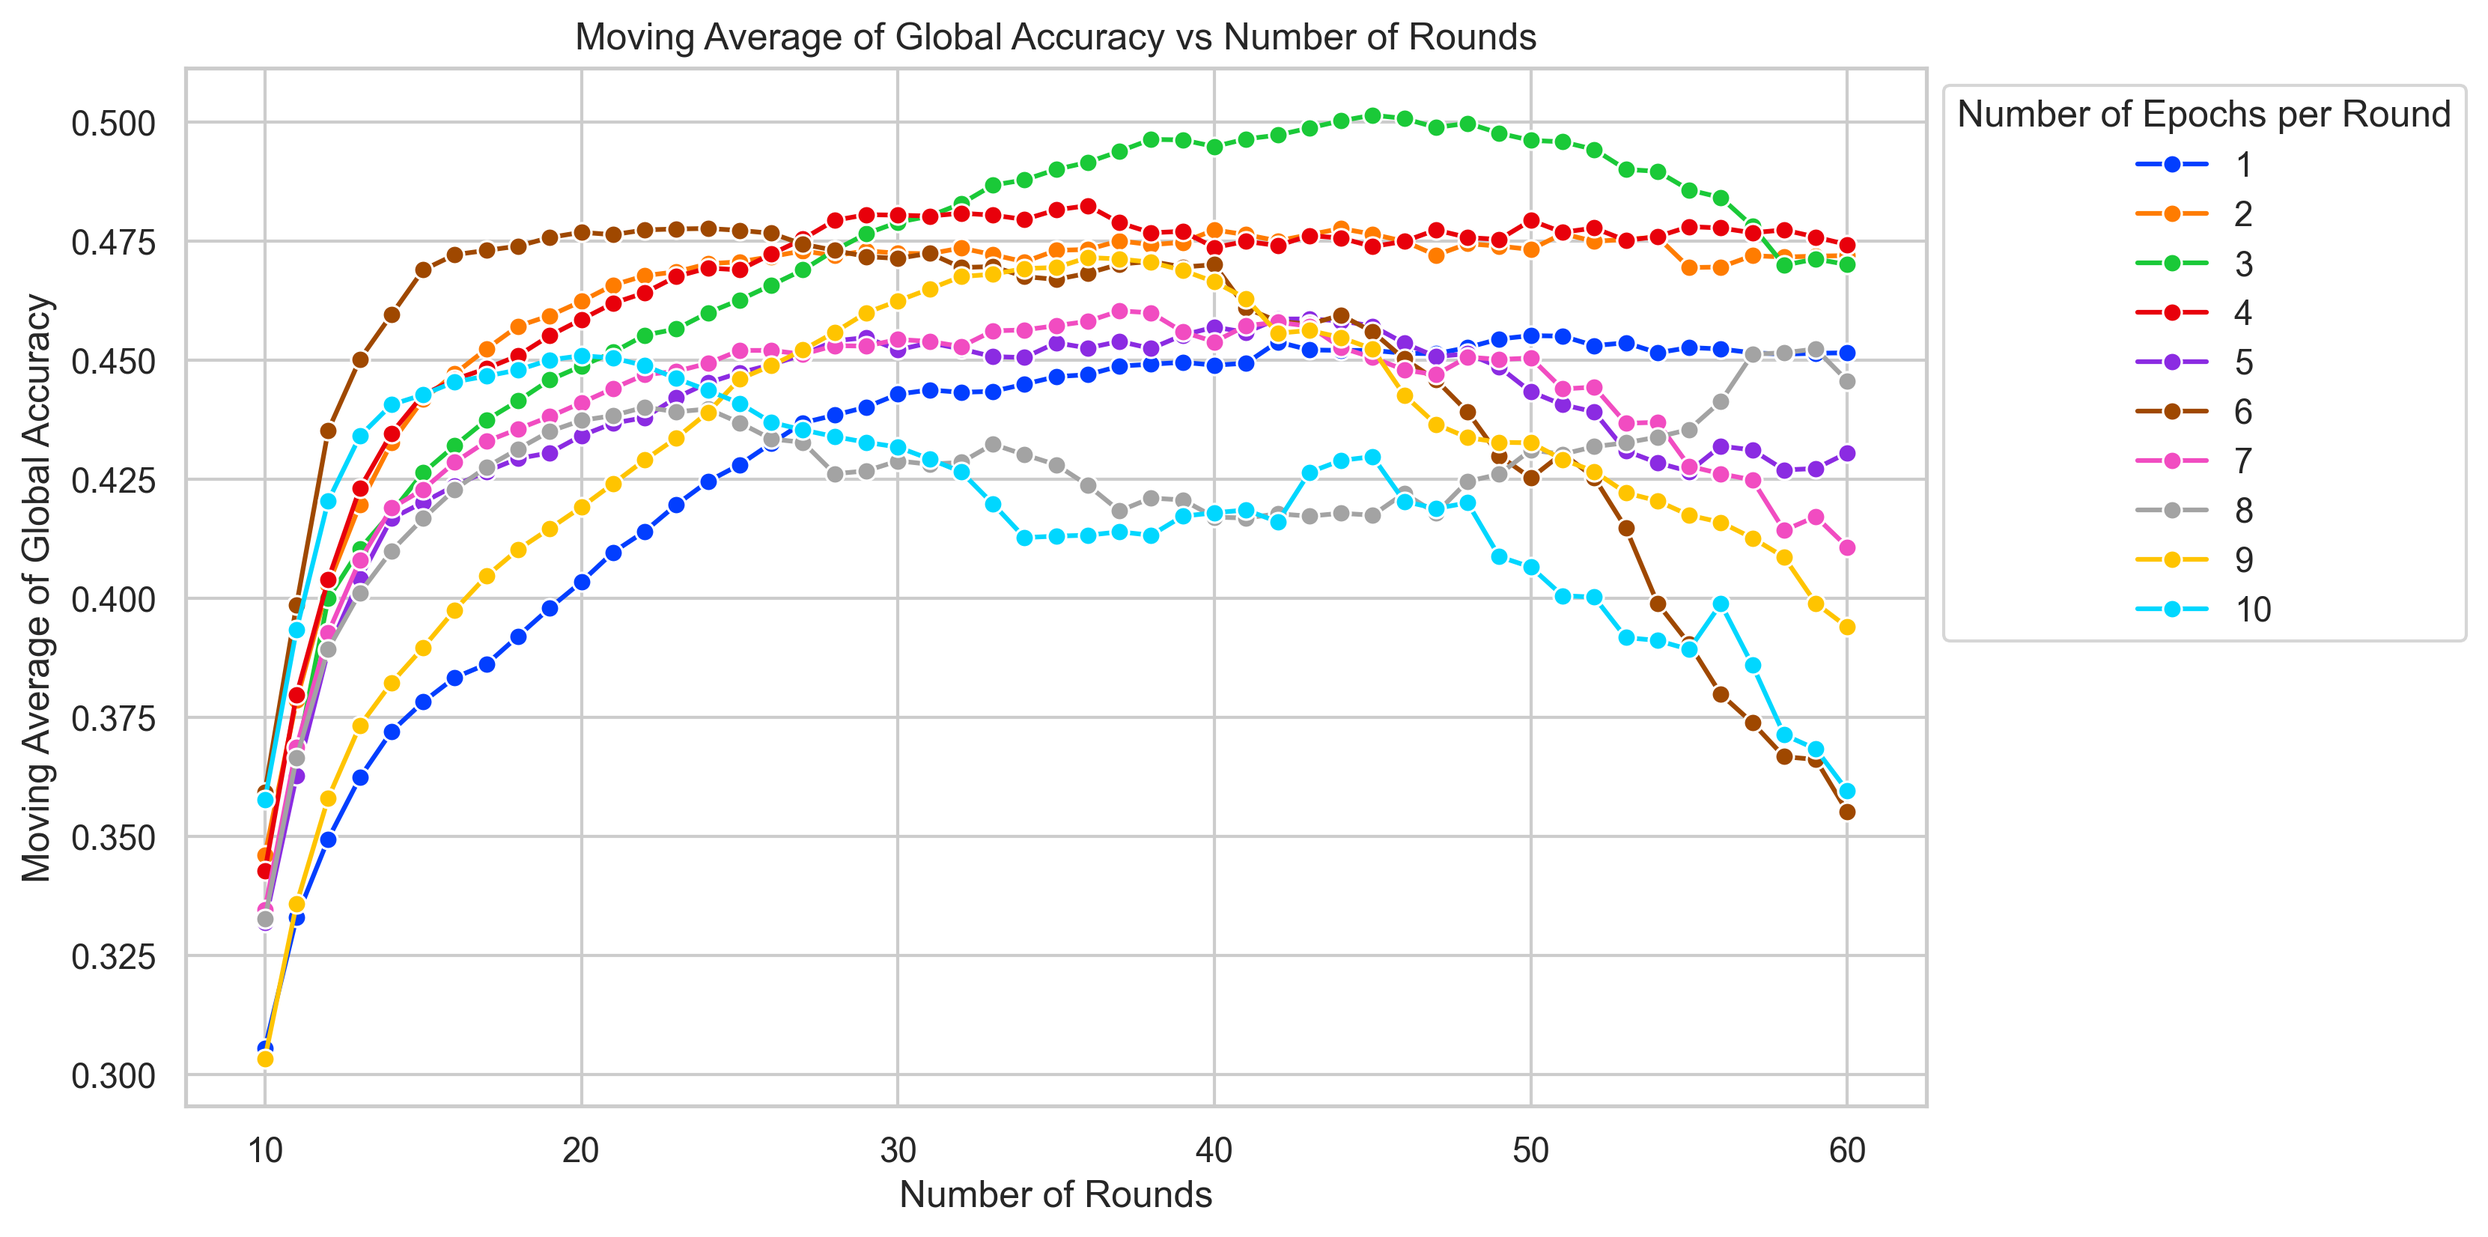
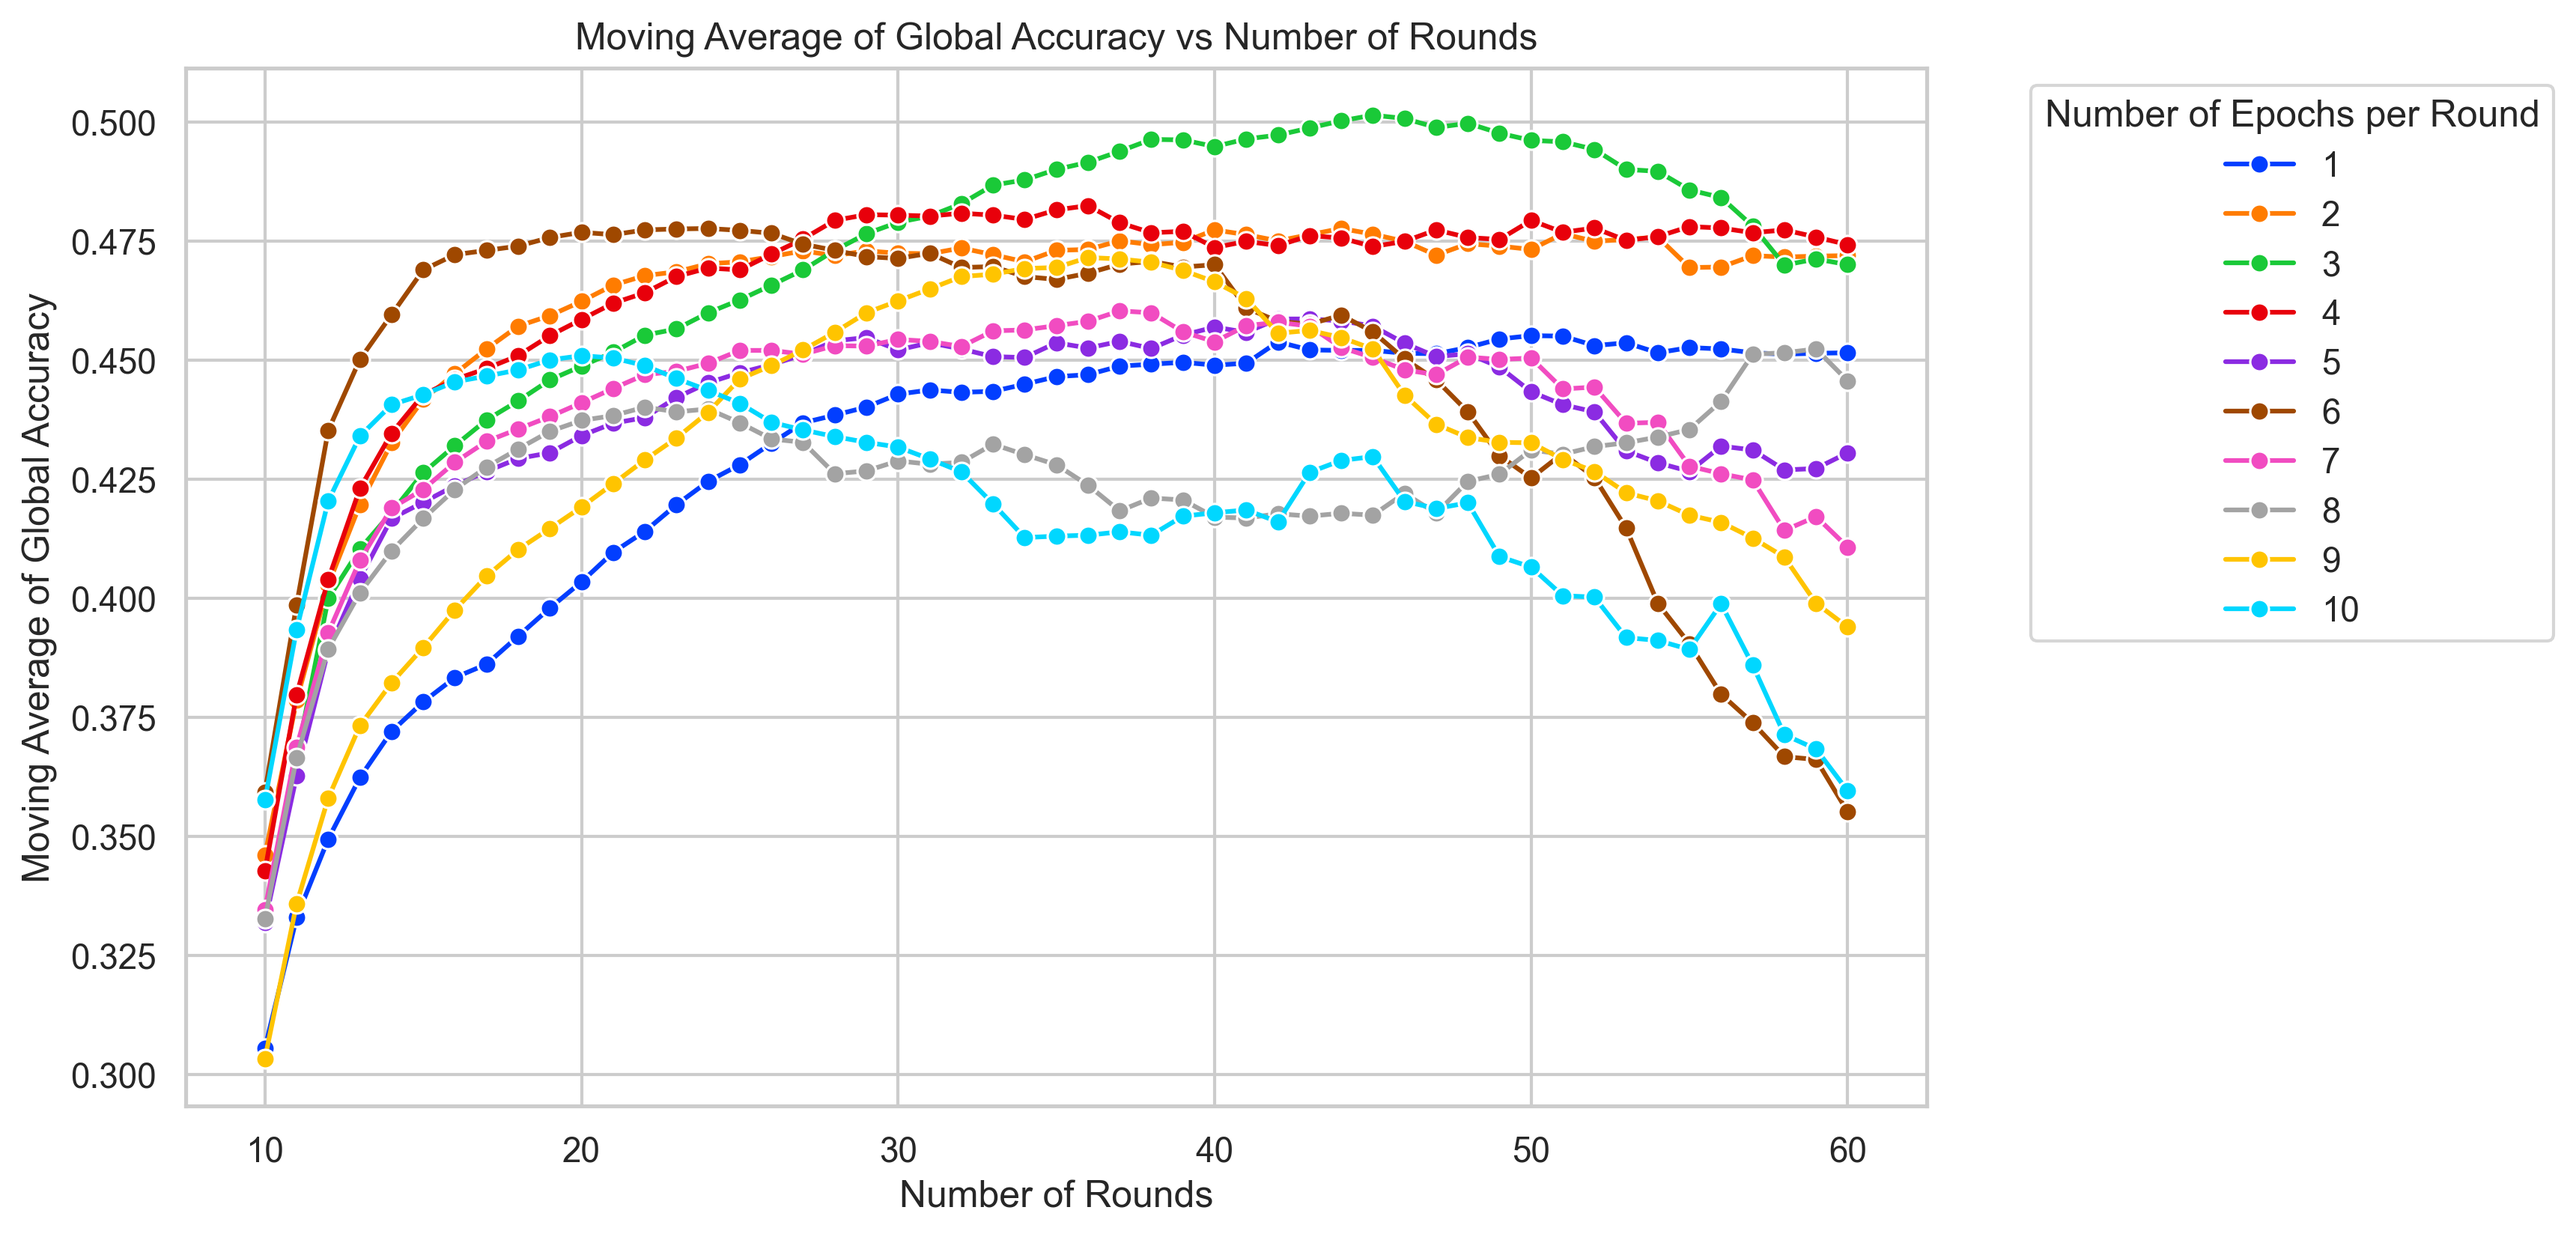
updated figures & file paths, Added git ignore

diff --git a/Federated_Averaging_Manual/plot/plot_no_attack.py b/Federated_Averaging_Manual/plot/plot_no_attack.py
@@ -3,32 +3,31 @@ import matplotlib.pyplot as plt
 import seaborn as sns
 
 # Load the data
-file_path = "../results/data_poison_results.csv"
+file_path = "../results/no_attack_results_5_clients.csv"
 data = pd.read_csv(file_path)
 
 # Plot the data
 sns.set(style="whitegrid")
 
-plt.figure(figsize=(10, 6))
-sns.lineplot(
-    data=data,
-    x="Round",
-    y="Global Accuracy",
-    hue="Number of Epochs",
-    marker="o",
-    palette="bright"
-)
+# plt.figure(figsize=(10, 6))
+# sns.lineplot(
+#     data=data,
+#     x="Round",
+#     y="Global Accuracy",
+#     hue="Number of Epochs",
+#     marker="o",
+#     palette="bright"
+# )
 
-plt.title("Global Accuracy vs Number of Rounds")
-plt.xlabel("Number of Rounds")
-plt.ylabel("Global Accuracy")
-plt.legend(title="Number of Epochs per Round", bbox_to_anchor=(1.05, 1), loc='upper left')
-plt.savefig("../figures/no_attack_plot_10_clients.png", bbox_inches='tight', dpi=300)
-# plt.show()
+# plt.title("Global Accuracy vs Number of Rounds")
+# plt.xlabel("Number of Rounds")
+# plt.ylabel("Global Accuracy")
+# plt.legend(title="Number of Epochs per Round", bbox_to_anchor=(1.05, 1), loc='upper left')
+# plt.savefig("../figures/no_attack_plot_10_clients.png", bbox_inches='tight', dpi=300)
 
 # Calculate the moving average
 window = 10
-data['Moving Average'] = data.groupby('Number of Epochs')['Global Accuracy'].transform(lambda x: x.rolling(window=window, min_periods=10).mean())
+data['Moving Average'] = data.groupby('Number of Epochs')['Global Accuracy'].transform(lambda x: x.rolling(window=window, min_periods=window).mean())
 
 # Plot the moving average
 plt.figure(figsize=(10, 6))
@@ -45,5 +44,4 @@ plt.title("Moving Average of Global Accuracy vs Number of Rounds")
 plt.xlabel("Number of Rounds")
 plt.ylabel("Moving Average of Global Accuracy")
 plt.legend(title="Number of Epochs per Round", bbox_to_anchor=(1.05, 1), loc='upper left')
-plt.savefig("../figures/no_attack_moving_average_plot_10_clients.png", bbox_inches='tight', dpi=300)
-# plt.show()
+plt.savefig("../figures/no_attack_moving_average_plot_5_clients.png", bbox_inches='tight', dpi=300)

diff --git a/Federated_Averaging_Manual/plot/plot_model_poisoning.py b/Federated_Averaging_Manual/plot/plot_model_poisoning.py
@@ -3,7 +3,7 @@ import matplotlib.pyplot as plt
 import seaborn as sns
 
 # Load the data
-data = pd.read_csv("../results/model_poison_results.csv")
+data = pd.read_csv("../results/model_poison_results_5_clients.csv")
 
 # Configure Seaborn for better aesthetics
 sns.set(style="whitegrid")
@@ -11,23 +11,23 @@ sns.set(style="whitegrid")
 # Update the 'Scale Factor' column for display
 data['Scale Factor Label'] = data['Scale Factor'].apply(lambda x: f"{x} (No Model Poisoning)" if x == 1 else str(x))
 
-# Plot the accuracy against the number of rounds for different scale factors
-plt.figure(figsize=(12, 8))
-sns.lineplot(
-    data=data, 
-    x="Round", 
-    y="Global Accuracy", 
-    hue="Scale Factor Label", 
-    marker="o",
-    palette="bright"
-)
+# # Plot the accuracy against the number of rounds for different scale factors
+# plt.figure(figsize=(12, 8))
+# sns.lineplot(
+#     data=data, 
+#     x="Round", 
+#     y="Global Accuracy", 
+#     hue="Scale Factor Label", 
+#     marker="o",
+#     palette="bright"
+# )
 
-# Add plot labels and title
-plt.title("Global Accuracy vs Number of Rounds for Different Scale Factors")
-plt.xlabel("Number of Rounds")
-plt.ylabel("Global Accuracy")
-plt.legend(title="Scale Factor")
-plt.savefig("../figures/model_poisoning_plot.png", dpi=300)
+# # Add plot labels and title
+# plt.title("Global Accuracy vs Number of Rounds for Different Scale Factors")
+# plt.xlabel("Number of Rounds")
+# plt.ylabel("Global Accuracy")
+# plt.legend(title="Scale Factor")
+# plt.savefig("../figures/model_poisoning_plot.png", dpi=300)
 
 # Calculate the moving average
 window = 5
@@ -49,4 +49,4 @@ plt.title("Global Accuracy (Moving Average) vs Number of Rounds for Different Sc
 plt.xlabel("Number of Rounds")
 plt.ylabel("Global Accuracy (Moving Average)")
 plt.legend(title="Scale Factor")
-plt.savefig("../figures/model_poisoning_moving_avg_plot.png", dpi=300)
+plt.savefig("../figures/model_poisoning_moving_avg_plot_5_clients.png", dpi=300)

diff --git a/Federated_Averaging_Manual/plot/plot_data_poisoning.py b/Federated_Averaging_Manual/plot/plot_data_poisoning.py
@@ -3,7 +3,7 @@ import seaborn as sns
 import matplotlib.pyplot as plt
 
 # Load the data
-file_path = "../results/data_poison_results.csv"
+file_path = "../results/data_poison_results_5_clients.csv"
 data = pd.read_csv(file_path)
 
 data['Key Label'] = data['Number of Data Poisoned Clients'].apply(lambda x: f"{x} (No Data Poisoning)" if x == 0 else str(x))
@@ -12,22 +12,22 @@ data['Key Label'] = data['Number of Data Poisoned Clients'].apply(lambda x: f"{x
 sns.set(style="whitegrid")
 
 # Plot using seaborn lineplot
-plt.figure(figsize=(12, 6))
-sns.lineplot(
-    data=data, 
-    x="Round", 
-    y="Global Accuracy", 
-    hue="Key Label", 
-    marker="o",
-    palette="bright"
-)
+# plt.figure(figsize=(12, 6))
+# sns.lineplot(
+#     data=data, 
+#     x="Round", 
+#     y="Global Accuracy", 
+#     hue="Key Label", 
+#     marker="o",
+#     palette="bright"
+# )
 
-plt.title("Global Accuracy vs Number of Rounds for Different Levels of Data Poisoning")
-plt.xlabel("Number of Rounds")
-plt.ylabel("Global Accuracy")
-plt.legend(title="Number of Poisoned Nodes", bbox_to_anchor=(1, 1), loc='upper left')
-plt.tight_layout()
-plt.savefig("../figures/data_poisoning_plot.png", dpi=300)
+# plt.title("Global Accuracy vs Number of Rounds for Different Levels of Data Poisoning")
+# plt.xlabel("Number of Rounds")
+# plt.ylabel("Global Accuracy")
+# plt.legend(title="Number of Poisoned Nodes", bbox_to_anchor=(1, 1), loc='upper left')
+# plt.tight_layout()
+# plt.savefig("../figures/data_poisoning_plot_5_clients.png", dpi=300)
 
 # Calculate the moving average
 window = 5
@@ -49,4 +49,4 @@ plt.xlabel("Number of Rounds")
 plt.ylabel("Moving Average of Global Accuracy")
 plt.legend(title="Number of Poisoned Nodes", bbox_to_anchor=(1, 1), loc='upper left')
 plt.tight_layout()
-plt.savefig("../figures/data_poisoning_moving_avg_plot.png", dpi=300)
+plt.savefig("../figures/data_poisoning_moving_avg_plot_5_clients.png", dpi=300)
